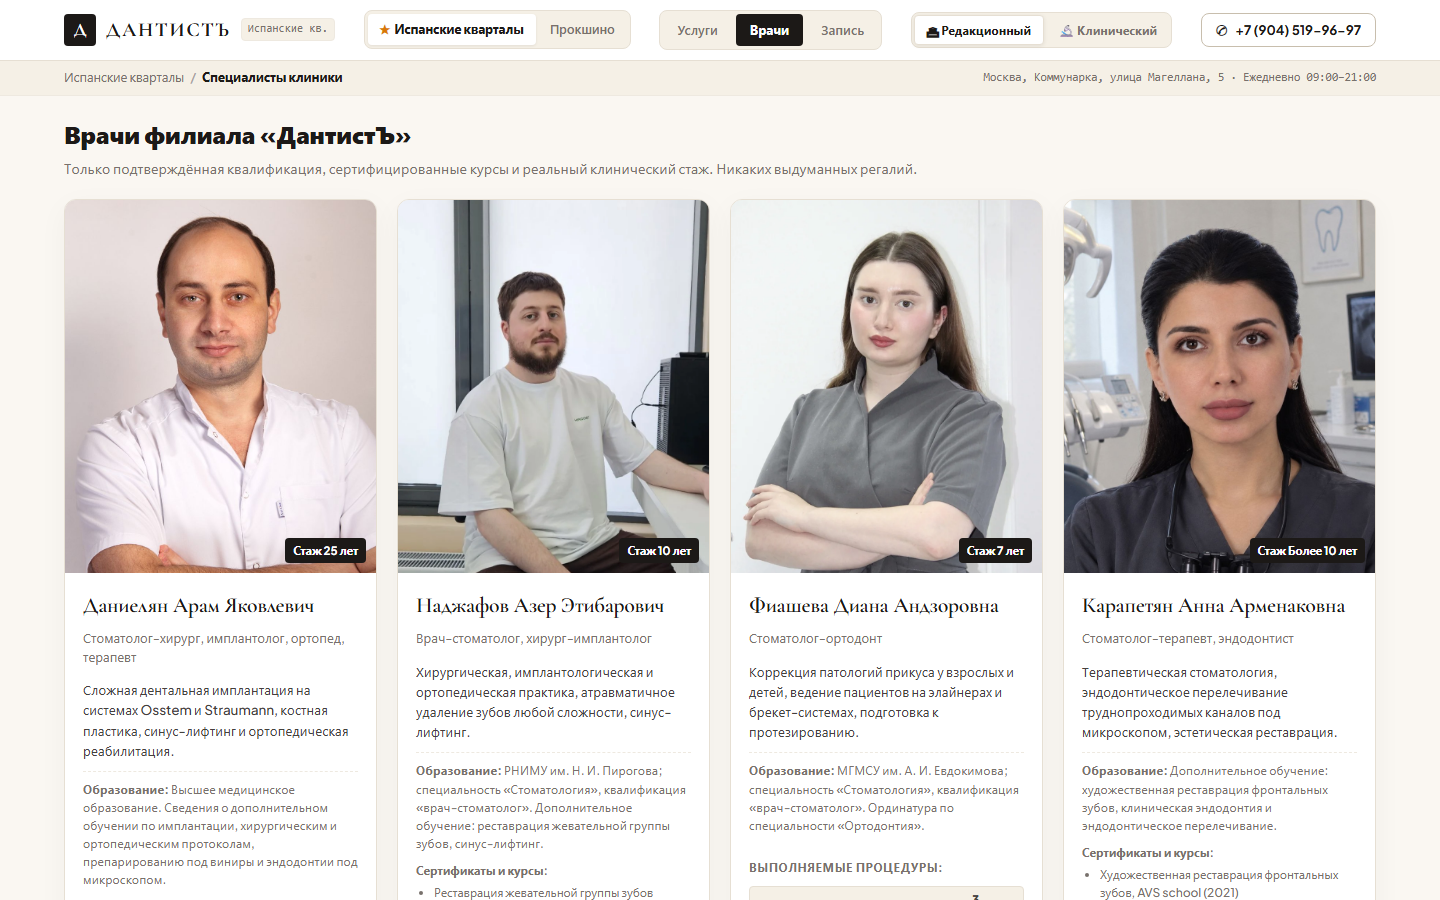
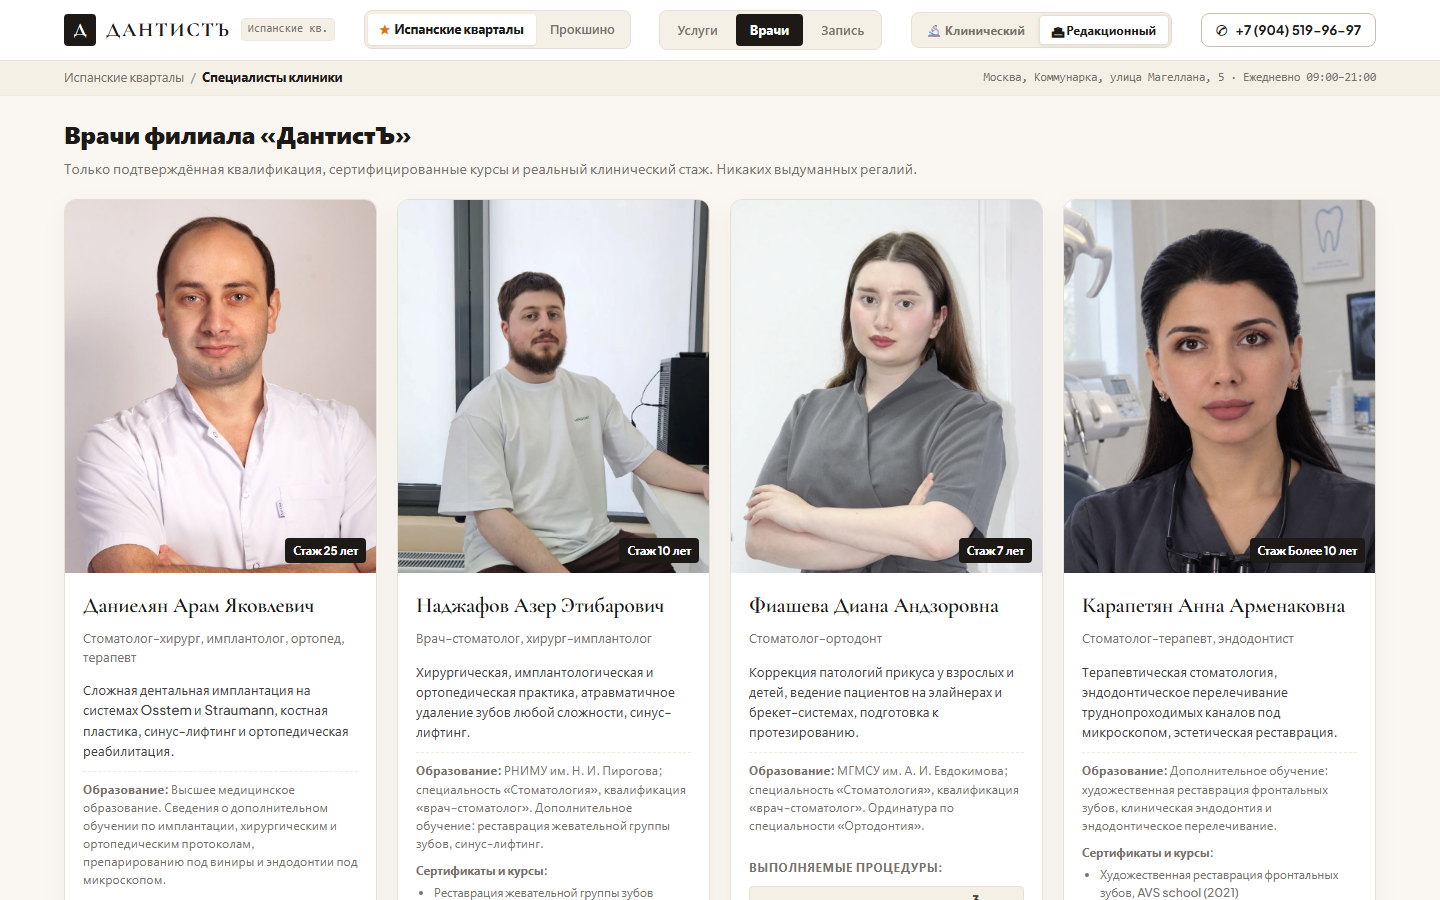
feat(atlas): set unified Clinical art direction as standard across both branches

Changed region(s): [[0.625, 0.0, 0.8125, 0.0622]]

diff --git a/atlas/assets/js/atlas-engine.js b/atlas/assets/js/atlas-engine.js
@@ -27,7 +27,7 @@
     catId: 'diagnostics',
     procId: 'consult-head',
     docSlug: null,
-    theme: 'editorial', // 'editorial' | 'clinical' (GATE 3 Art Direction)
+    theme: 'clinical', // Unified High-Tech Clinical standard (Carl Zeiss emerald, Manrope, graphite)
     searchQuery: '',
     modalOpen: false,
     modalContext: null,
@@ -117,16 +117,16 @@
       state.branch = 'ispanskie';
     }
 
-    // Theme (GATE 3 Art Direction with Smart Branch Default REV-011)
+    // Theme (Unified High-Tech Clinical Standard)
     if (themeParam) {
       if (['editorial', 'clinical'].includes(themeParam)) {
         state.theme = themeParam;
       } else {
-        state.theme = (state.branch === 'prokshino') ? 'clinical' : 'editorial';
+        state.theme = 'clinical';
         invalid = true;
       }
     } else {
-      state.theme = (state.branch === 'prokshino') ? 'clinical' : 'editorial';
+      state.theme = 'clinical';
     }
 
     // View / Pathway
@@ -627,12 +627,11 @@
       });
     }
 
-    // Branch Switches (with Smart Art Direction Default REV-011)
+    // Branch Switches (Unified Clinical Art Direction)
     if (el.btnBranchIspanskie) {
       el.btnBranchIspanskie.addEventListener('click', () => {
         if (state.branch === 'ispanskie') return;
         state.branch = 'ispanskie';
-        state.theme = 'editorial';
         syncUrl();
         renderHeaderAndRibbon();
         renderServices();
@@ -645,7 +644,6 @@
       el.btnBranchProkshino.addEventListener('click', () => {
         if (state.branch === 'prokshino') return;
         state.branch = 'prokshino';
-        state.theme = 'clinical';
         syncUrl();
         renderHeaderAndRibbon();
         renderServices();

diff --git a/atlas/index.html b/atlas/index.html
@@ -11,7 +11,7 @@
   <link rel="stylesheet" href="assets/css/atlas-wireframe.css">
   <link rel="stylesheet" href="assets/css/atlas-themes.css">
 </head>
-<body class="theme-editorial">
+<body class="theme-clinical">
 
   <!-- Top System Bar -->
   <header class="atlas-topbar" role="banner">
@@ -48,13 +48,13 @@
         </button>
       </nav>
 
-      <!-- GATE 3: Art Direction Switcher (Editorial vs Clinical) -->
+      <!-- GATE 3: Art Direction Switcher (Clinical Standard vs Editorial Mode) -->
       <nav class="theme-switcher-bar" aria-label="Выбор художественного направления">
-        <button type="button" class="theme-switch-btn is-active" id="themeBtnEditorial" data-theme-val="editorial">
-          <span>🏛 Редакционный</span>
-        </button>
-        <button type="button" class="theme-switch-btn" id="themeBtnClinical" data-theme-val="clinical">
+        <button type="button" class="theme-switch-btn is-active" id="themeBtnClinical" data-theme-val="clinical">
           <span>🔬 Клинический</span>
+        </button>
+        <button type="button" class="theme-switch-btn" id="themeBtnEditorial" data-theme-val="editorial">
+          <span>🏛 Редакционный</span>
         </button>
       </nav>
 
